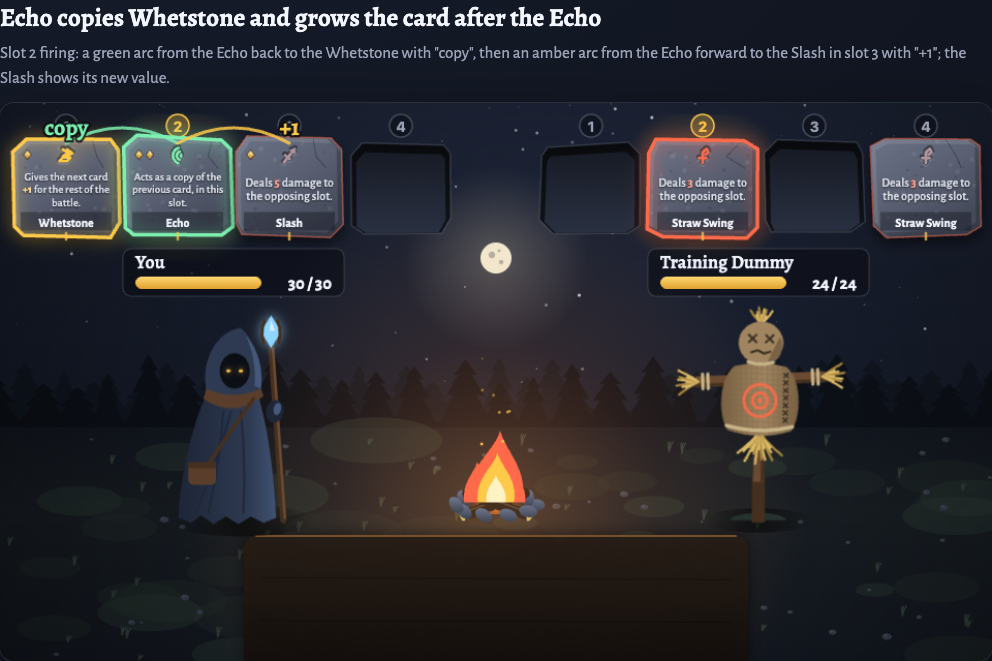
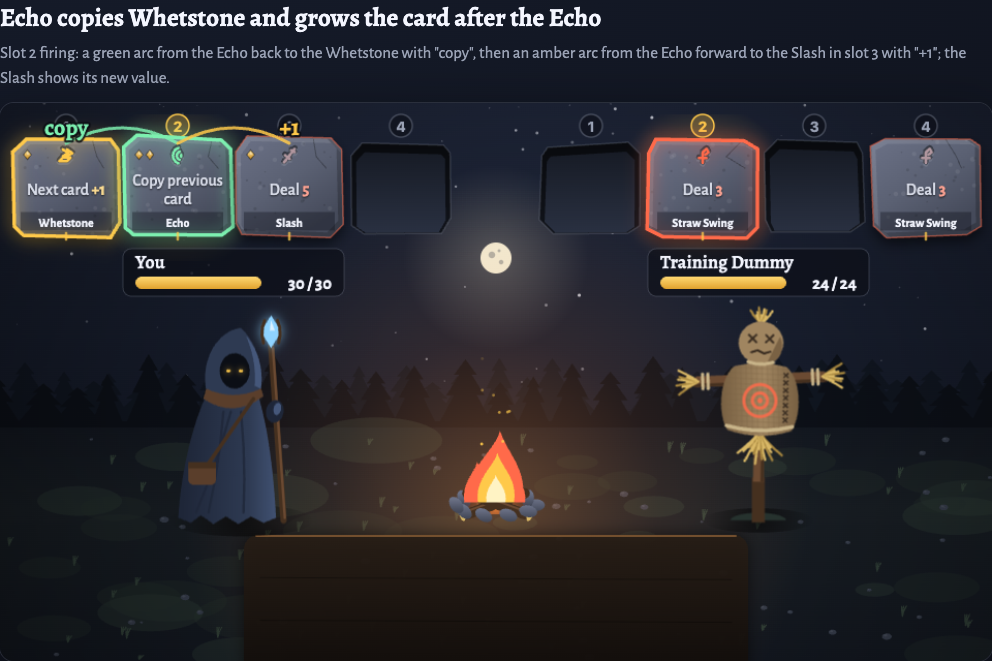
Card faces show a short phrase: Deal 9, Block 9, Next card +2
The author asked on 2026-11-19 that the face text be short. The face now
prints a verb and the number; the aria-label and the log keep the full
sentence, and a test checks both carry the same number. With the shorter
phrase the text size cap rises from 12 to 16 board px. Screenshots and
scenes.md regenerated with npm run scenes.

Changed region(s): [[0.0, 0.2421, 0.3438, 0.3328], [0.875, 0.2723, 1.0, 0.3026], [0.6562, 0.2723, 0.75, 0.3026]]

diff --git a/tests/card-face.test.ts b/tests/card-face.test.ts
@@ -96,10 +96,12 @@ const weightOf = (font: string): number => Number(/^(\d{3}) /.exec(font)?.[1]);
 describe('card effect text as parts', () => {
   for (const id of IDS) {
     for (const level of LEVELS) {
-      it(`${CARDS[id].name} level ${level}: the parts join to the same sentence as cardEffectText`, () => {
+      it(`${CARDS[id].name} level ${level}: the face phrase is short and carries the same number as the full sentence`, () => {
         const c = card(id, level);
         const parts = cardEffectParts(c);
-        expect(joined(parts)).toBe(cardEffectText(c));
+        expect(joined(parts).length).toBeLessThanOrEqual(18);
+        expect(joined(parts).length).toBeLessThan(cardEffectText(c).length);
+        expect(cardEffectText(c).match(/\d+/g) ?? []).toEqual(joined(parts).match(/\d+/g) ?? []);
         const values = parts.filter((p) => p.kind === 'value');
         const value = cardValue(c);
         if (value === null) expect(values).toEqual([]);
@@ -110,6 +112,13 @@ describe('card effect text as parts', () => {
       });
     }
   }
+
+  it('the face shows a verb and the number, as the author asked on 2026-11-19', () => {
+    expect(joined(cardEffectParts(card('slash')))).toBe('Deal 4');
+    expect(joined(cardEffectParts(card('parry', 3)))).toBe('Block 9');
+    expect(joined(cardEffectParts(card('whetstone', 2)))).toBe('Next card +2');
+    expect(joined(cardEffectParts(card('echo')))).toBe('Copy previous card');
+  });
 
   it('the full sentences used by the aria-label and the log are unchanged', () => {
     expect(cardEffectText(card('slash'))).toBe('Deals 4 damage to the opposing slot.');
@@ -125,7 +134,7 @@ describe('card effect text as parts', () => {
   });
 
   it('edge: a value shown from an event payload replaces the card value in the parts', () => {
-    expect(joined(cardEffectParts(card('slash'), 6))).toBe('Deals 6 damage to the opposing slot.');
+    expect(joined(cardEffectParts(card('slash'), 6))).toBe('Deal 6');
   });
 
   it('edge: Echo has no number, so no part is a value', () => {
@@ -146,12 +155,13 @@ describe('card text layout', () => {
     });
   }
 
-  it('edge: Parry level 3, the longest text, wraps to fit the smallest stone; measured widths fit the box', () => {
-    const c = card('parry', 3);
+  it('edge: Echo, the longest face phrase, fits the smallest stone; measured widths fit the box', () => {
+    const c = card('echo');
+    const longest = Math.max(...IDS.flatMap((id) => LEVELS.map((level) => joined(cardEffectParts(card(id, level))).length)));
+    expect(joined(cardEffectParts(c)).length).toBe(longest);
     const box = cardFaceLayout(smallest).text;
     const out = layoutCardText(cardEffectParts(c), box, measure);
-    expect(out.lines.length).toBeGreaterThan(1);
-    expect(out.lines.map((l) => l.runs.map((r) => r.text).join('')).join(' ')).toBe(cardEffectText(c));
+    expect(out.lines.map((l) => l.runs.map((r) => r.text).join('')).join(' ')).toBe(joined(cardEffectParts(c)));
     for (const line of out.lines) {
       // Re-measure each line from its runs, in each run's own font, as the browser would draw it.
       const width = line.runs.reduce((n, r) => n + textWidth(r.text, r.font), 0);
@@ -220,9 +230,9 @@ describe('drawing a stone', () => {
       const l = look(c);
       const { drawn } = draw(box, c, l);
       expect(drawn.some((d) => d.text === l.name)).toBe(true);
-      // Words are drawn in runs per style; joining them gives the sentence back.
-      expect(sentence(drawn, l.name)).toBe(cardEffectText(c));
-      // The value appears once, as part of the sentence (no medallion copy of it).
+      // Words are drawn in runs per style; joining them gives the face phrase back.
+      expect(sentence(drawn, l.name)).toBe(joined(cardEffectParts(c)));
+      // The value appears once, as part of the phrase (no medallion copy of it).
       const value = cardValue(c);
       if (value !== null) expect(drawn.filter((d) => d.text.replace('+', '') === String(value))).toHaveLength(1);
     });
@@ -233,7 +243,7 @@ describe('drawing a stone', () => {
     const { drawn } = draw(STONES.slot, c, look(c));
     const six = drawn.filter((d) => d.text === '6');
     expect(six).toHaveLength(1);
-    const plain = drawn.filter((d) => d.text.startsWith('Deals'));
+    const plain = drawn.filter((d) => d.text.startsWith('Deal'));
     expect(plain).toHaveLength(1);
     expect(weightOf(six[0]?.font ?? '')).toBeGreaterThan(weightOf(plain[0]?.font ?? ''));
     expect(six[0]?.fillStyle).not.toBe(plain[0]?.fillStyle);

diff --git a/present/text.ts b/present/text.ts
@@ -22,14 +22,11 @@ export interface EffectPart {
 const plain = (text: string): EffectPart => ({ kind: 'text', text });
 const valuePart = (text: string): EffectPart => ({ kind: 'value', text });
 
-/**
- * What a card does at its level, as parts, read from the card table. `shownValue` replaces the
- * card's current value; the page passes a value taken from an event payload (a grow event's
- * `valueAfter`) while a round is animating. Joined, the parts are `cardEffectText`.
- */
-export function cardEffectParts(card: Pick<CardInstance, 'cardId' | 'level' | 'growth'>, shownValue?: number): readonly EffectPart[] {
+type Card = Pick<CardInstance, 'cardId' | 'level' | 'growth'>;
+
+/** The full sentence, for the aria-label and the log. The face uses the short form below. */
+function sentenceParts(card: Card, value: string): readonly EffectPart[] {
   const kind = cardDef(card.cardId).effect.kind;
-  const value = String(shownValue ?? cardValue(card));
   switch (kind) {
     case 'attack':
       return [plain('Deals '), valuePart(value), plain(' damage to the opposing slot.')];
@@ -44,9 +41,32 @@ export function cardEffectParts(card: Pick<CardInstance, 'cardId' | 'level' | 'g
   }
 }
 
+/**
+ * What a card does at its level, as the short phrase printed on its face ("Deal 9"), in parts.
+ * `shownValue` replaces the card's current value; the page passes a value taken from an event
+ * payload (a grow event's `valueAfter`) while a round is animating. The full sentence is
+ * `cardEffectText`; both take the value from the same place.
+ */
+export function cardEffectParts(card: Card, shownValue?: number): readonly EffectPart[] {
+  const kind = cardDef(card.cardId).effect.kind;
+  const value = String(shownValue ?? cardValue(card));
+  switch (kind) {
+    case 'attack':
+      return [plain('Deal '), valuePart(value)];
+    case 'block':
+      return [plain('Block '), valuePart(value)];
+    case 'grow':
+      return [plain('Next card '), valuePart(`+${value}`)];
+    case 'copy':
+      return [plain('Copy previous card')];
+    default:
+      return assertNever(kind);
+  }
+}
+
 /** One-line description of what a card does at its level, for the aria-label and the log. */
-export function cardEffectText(card: Pick<CardInstance, 'cardId' | 'level' | 'growth'>): string {
-  return cardEffectParts(card)
+export function cardEffectText(card: Card): string {
+  return sentenceParts(card, String(cardValue(card)))
     .map((p) => p.text)
     .join('');
 }

diff --git a/web/card-face.ts b/web/card-face.ts
@@ -11,7 +11,7 @@ export interface Box {
 }
 
 /** Effect text sizes in board pixels: the largest size that fits is used, never below the smallest. */
-export const CARD_TEXT = { maxPx: 12, minPx: 9, stepPx: 0.5, lineHeight: 1.12, descent: 0.3 } as const;
+export const CARD_TEXT = { maxPx: 16, minPx: 9, stepPx: 0.5, lineHeight: 1.12, descent: 0.3 } as const;
 
 /** Font of a run of effect text: the value is in a heavier weight than the words around it. */
 export function cardTextFont(px: number, kind: EffectPart['kind']): string {

diff --git a/evidence/issue21/scenes.md b/evidence/issue21/scenes.md
@@ -1,26 +1,15 @@
 # Issue #21: card faces show their effect text
 
-Screenshots from `npm run scenes` (desktop viewport, 1280×800), after the change:
+Screenshots from `npm run scenes` (desktop viewport, 1280×800), after the author's change on 2026-11-19: the face shows a short phrase (`Deal 9`, `Block 9`, `Next card +2`, `Copy previous card`); the aria-label and the log keep the full sentence.
 
-- `full-lines.png`: every slot filled at level 3, plus Slash and Parry in the hand. Parry level 3
-  ("Blocks 9 damage from the opposing slot only.") wraps to three lines on the line stones
-  (104×94, the smallest stone) and in the hand; the 9 is drawn in weight 700 and the defense color.
-  Enemy Straw Swing stones show their text and no cost gems. No top-right medallion.
-- `echo-after-whetstone.png`: the Slash grown by 1 reads "Deals 5 damage to the opposing slot."
-  with 5 highlighted; the Echo's text has no highlighted part.
-- `parry-block.png`: while an impact animates, its "Blocked 3" label is drawn over the stone and
-  covers the effect text under it until it fades. The "fizzles" label does the same
-  (`whetstone-fizzle` scene). The labels were placed before this change; they used to cover the rune.
+- `full-lines.png`: every slot filled at level 3, plus Slash and Parry in the hand. The number is drawn in weight 700 and its effect's color. Enemy Straw Swing stones show their phrase and no cost gems. No top-right medallion.
+- `echo-after-whetstone.png`: the Slash grown by 1 reads `Deal 5` with 5 highlighted; the Echo's phrase has no highlighted part.
+- `parry-block.png`: while an impact animates, its "Blocked 3" label is drawn over the stone and covers the phrase under it until it fades. The "fizzles" label does the same (`whetstone-fizzle` scene). The labels were placed before this change.
 
-What `npm run scenes` reported for the card text (36 screenshots, 3 viewports, no errors):
+What `npm run scenes` reported (36 screenshots, 3 viewports):
 
-- No card text is clipped, and no card text overlaps its stone's name.
-- The overlaps it lists are between card text and the animated "Blocked N" and "fizzles" labels
-  above, plus "+1"/"copy" labels over slot numbers, which this change does not touch.
-- Card text size on screen, desktop viewport: 11.4 px on line stones, 10.4 px on hand cards
-  (Parry) and 10.4 px on full-lines' Slash. On the 375 px phone viewport line-stone text is
-  3.7–4.1 px, at the board scale that already draws stone names at 4.1 px there; hand cards below
-  the board show 7.1 px. The script lists text under 12 px as small; it does not fail on it.
+- No console errors, no clipped text, and no card text overlaps its stone's name.
+- The overlaps it lists are between card text and the animated "Blocked N" and "fizzles" labels, plus "+1"/"copy" labels over slot numbers, which this change does not touch.
+- Card text size on screen: on the desktop viewport no card phrase is under 12 px (the shorter phrase let the size cap rise from 12 to 16 board px). On the 375 px phone viewport line-stone phrases are 5.5–6.8 px (they were 3.7–4.1 px as sentences); the whole board is scaled down there, and a phone layout is a separate ticket. Hand cards below the board show 9.5 px.
 
-The fit is checked in CI by `tests/card-face.test.ts`, which measures each wrapped line with the
-advance widths from the Alegreya Sans font files the page loads.
+The fit is checked in CI by `tests/card-face.test.ts`, which measures each wrapped line with the advance widths from the Alegreya Sans font files the page loads.
